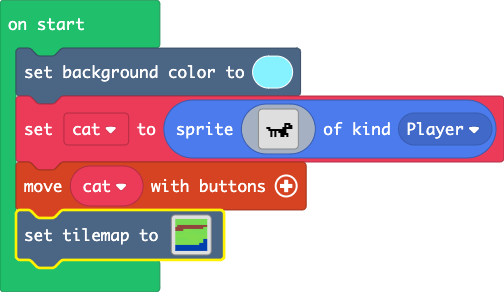
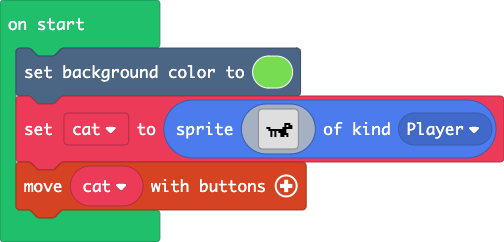
Update main.blocks, main.ts

diff --git a/main.ts b/main.ts
@@ -76,7 +76,7 @@ e e e e e e e e e e e e e e e e
 8 8 8 8 8 8 8 8 8 8 8 8 8 8 8 8 
 `
 }
-scene.setBackgroundColor(9)
+scene.setBackgroundColor(7)
 let cat = sprites.create(img`
 . . . . . . . . . . . . . . . . 
 . . . . . . . . . . . . . . . . 
@@ -96,26 +96,3 @@ let cat = sprites.create(img`
 . . . . . . . . . . . . . . . . 
 `, SpriteKind.Player)
 controller.moveSprite(cat)
-tiles.setTilemap(tiles.createTilemap(
-            hex`1000100004040404040404040404040404040404040404040404040404040404040404040404040404040404040404040404040404050505050505050505050505050505050505050505050505050505050504040505050507070704040404040404040404040404040707070704040404040404040404040707040404070404040404040707070707070707070707070707070704040404040407070707070704070707040404040404040707070707040706060707070707070707070707070707060607070707070707070707070706060606060606060606060606060606060606060606060606060606060606060606060606060606060606060606060606060606`,
-            img`
-. . . . . . . . . . . . . . . . 
-. . . . . . . . . . . . . . . . 
-. . . . . . . . . . . . . . . . 
-. . . . . . . . . . . . . . . . 
-. . . . . . . . . . . . . . . . 
-. . . . . . . . . . . . . . . . 
-. . . . . . . . . . . . . . . . 
-. . . . . . . . . . . . . . . . 
-. . . . . . . . . . . . . . . . 
-. . . . . . . . . . . . . . . . 
-. . . . . . . . . . . . . . . . 
-. . . . . . . . . . . . . . . . 
-. . . . . . . . . . . . . . . . 
-. . . . . . . . . . . . . . . . 
-. . . . . . . . . . . . . . . . 
-. . . . . . . . . . . . . . . . 
-`,
-            [myTiles.tile0,sprites.castle.tilePath4,sprites.castle.tilePath1,sprites.castle.tileGrass2,myTiles.tile1,myTiles.tile2,myTiles.tile3,sprites.castle.tileGrass1],
-            TileScale.Sixteen
-        ))
